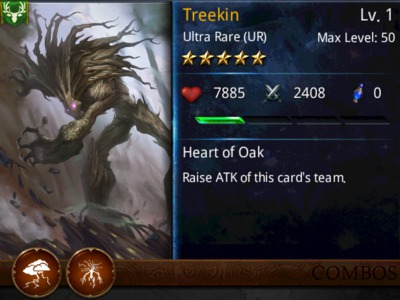
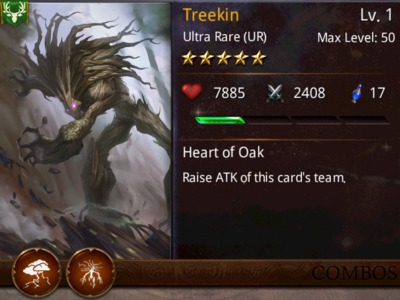
Update cards' mana value

diff --git a/cards.js b/cards.js
@@ -25,7 +25,7 @@ var cards = [
   new Card("Battlemage", "Camelot", 3, 11, 30, 4622, 1126, ["Gifted and Talented",]),
   new Card("Beastmaster", "Druid", 4, 12, 40, 5200, 1611, ["Wanderers","Druid Warband","Feral Pack",]),
   new Card("Ben-nu Fireborn", "Druid", 5, "", 50, 7409, 2269, ["Undying","Regeneration","Fire Breathing","Mythic Creatures","Immortals","Burning Wrath","Phoenix Fury",]),
-  new Card("Ben-nu Frostborn", "Druid", 5, "", 50, 11223, 2213, ["Phoenix Fury","Frozen Terrors",]),
+  new Card("Ben-nu Frostborn", "Druid", 5, 20, 50, 11223, 2213, ["Phoenix Fury","Frozen Terrors",]),
   new Card("Ben-nu Hellborn", "Camelot", 6, "", 60, 12875, 3144, ["Phoenix Fury","Aerial Doom",]),
   new Card("Ben-nu Skyborn", "Druid", 5, "", 50, 10452, 2765, ["Phoenix Fury","Fury of the Skies",]),
   new Card("Berserker", "Druid", 4, "", 40, 4740, 1776, ["Bruisers","Brute Force","Tribal Fury",]),
@@ -163,8 +163,8 @@ var cards = [
   new Card("Toymaker", "Camelot", 4, "", 40, 4320, 1368, ["Polar",]),
   new Card("Trahern", "Demon", 4, "", 40, 6124, 1973, ["Monster Mash",]),
   new Card("Treehound", "Druid", 6, 21, 50, 10857, 3265, ["Living Forest","Cold Killers","Cunning Foes",]),
-  new Card("Treekin", "Druid", 5, "", 50, 7885, 2408, ["Nature's Wrath","Living Forest",]),
-  new Card("Treekin Shaman", "Druid", 5, "", 50, 8065, 1944, ["Living Forest","Theurgists","Nature Magic",]),
+  new Card("Treekin", "Druid", 5, 17, 50, 7885, 2408, ["Nature's Wrath","Living Forest",]),
+  new Card("Treekin Shaman", "Druid", 5, 16, 50, 8065, 1944, ["Living Forest","Theurgists","Nature Magic",]),
   new Card("Ulster Knight", "Camelot", 4, "", 40, 5670, 1370, ["Mercenaries","Hired Steel",]),
   new Card("Unicorn", "Camelot", 1, 5, 10, 1480, 365, []),
   new Card("Vambrael", "Camelot", 6, 20, 60, 11830, 2780, ["Divine Intervention","Gods and Heroes","Gods","Celestials","Elite Force","Righteous Fury",]),
